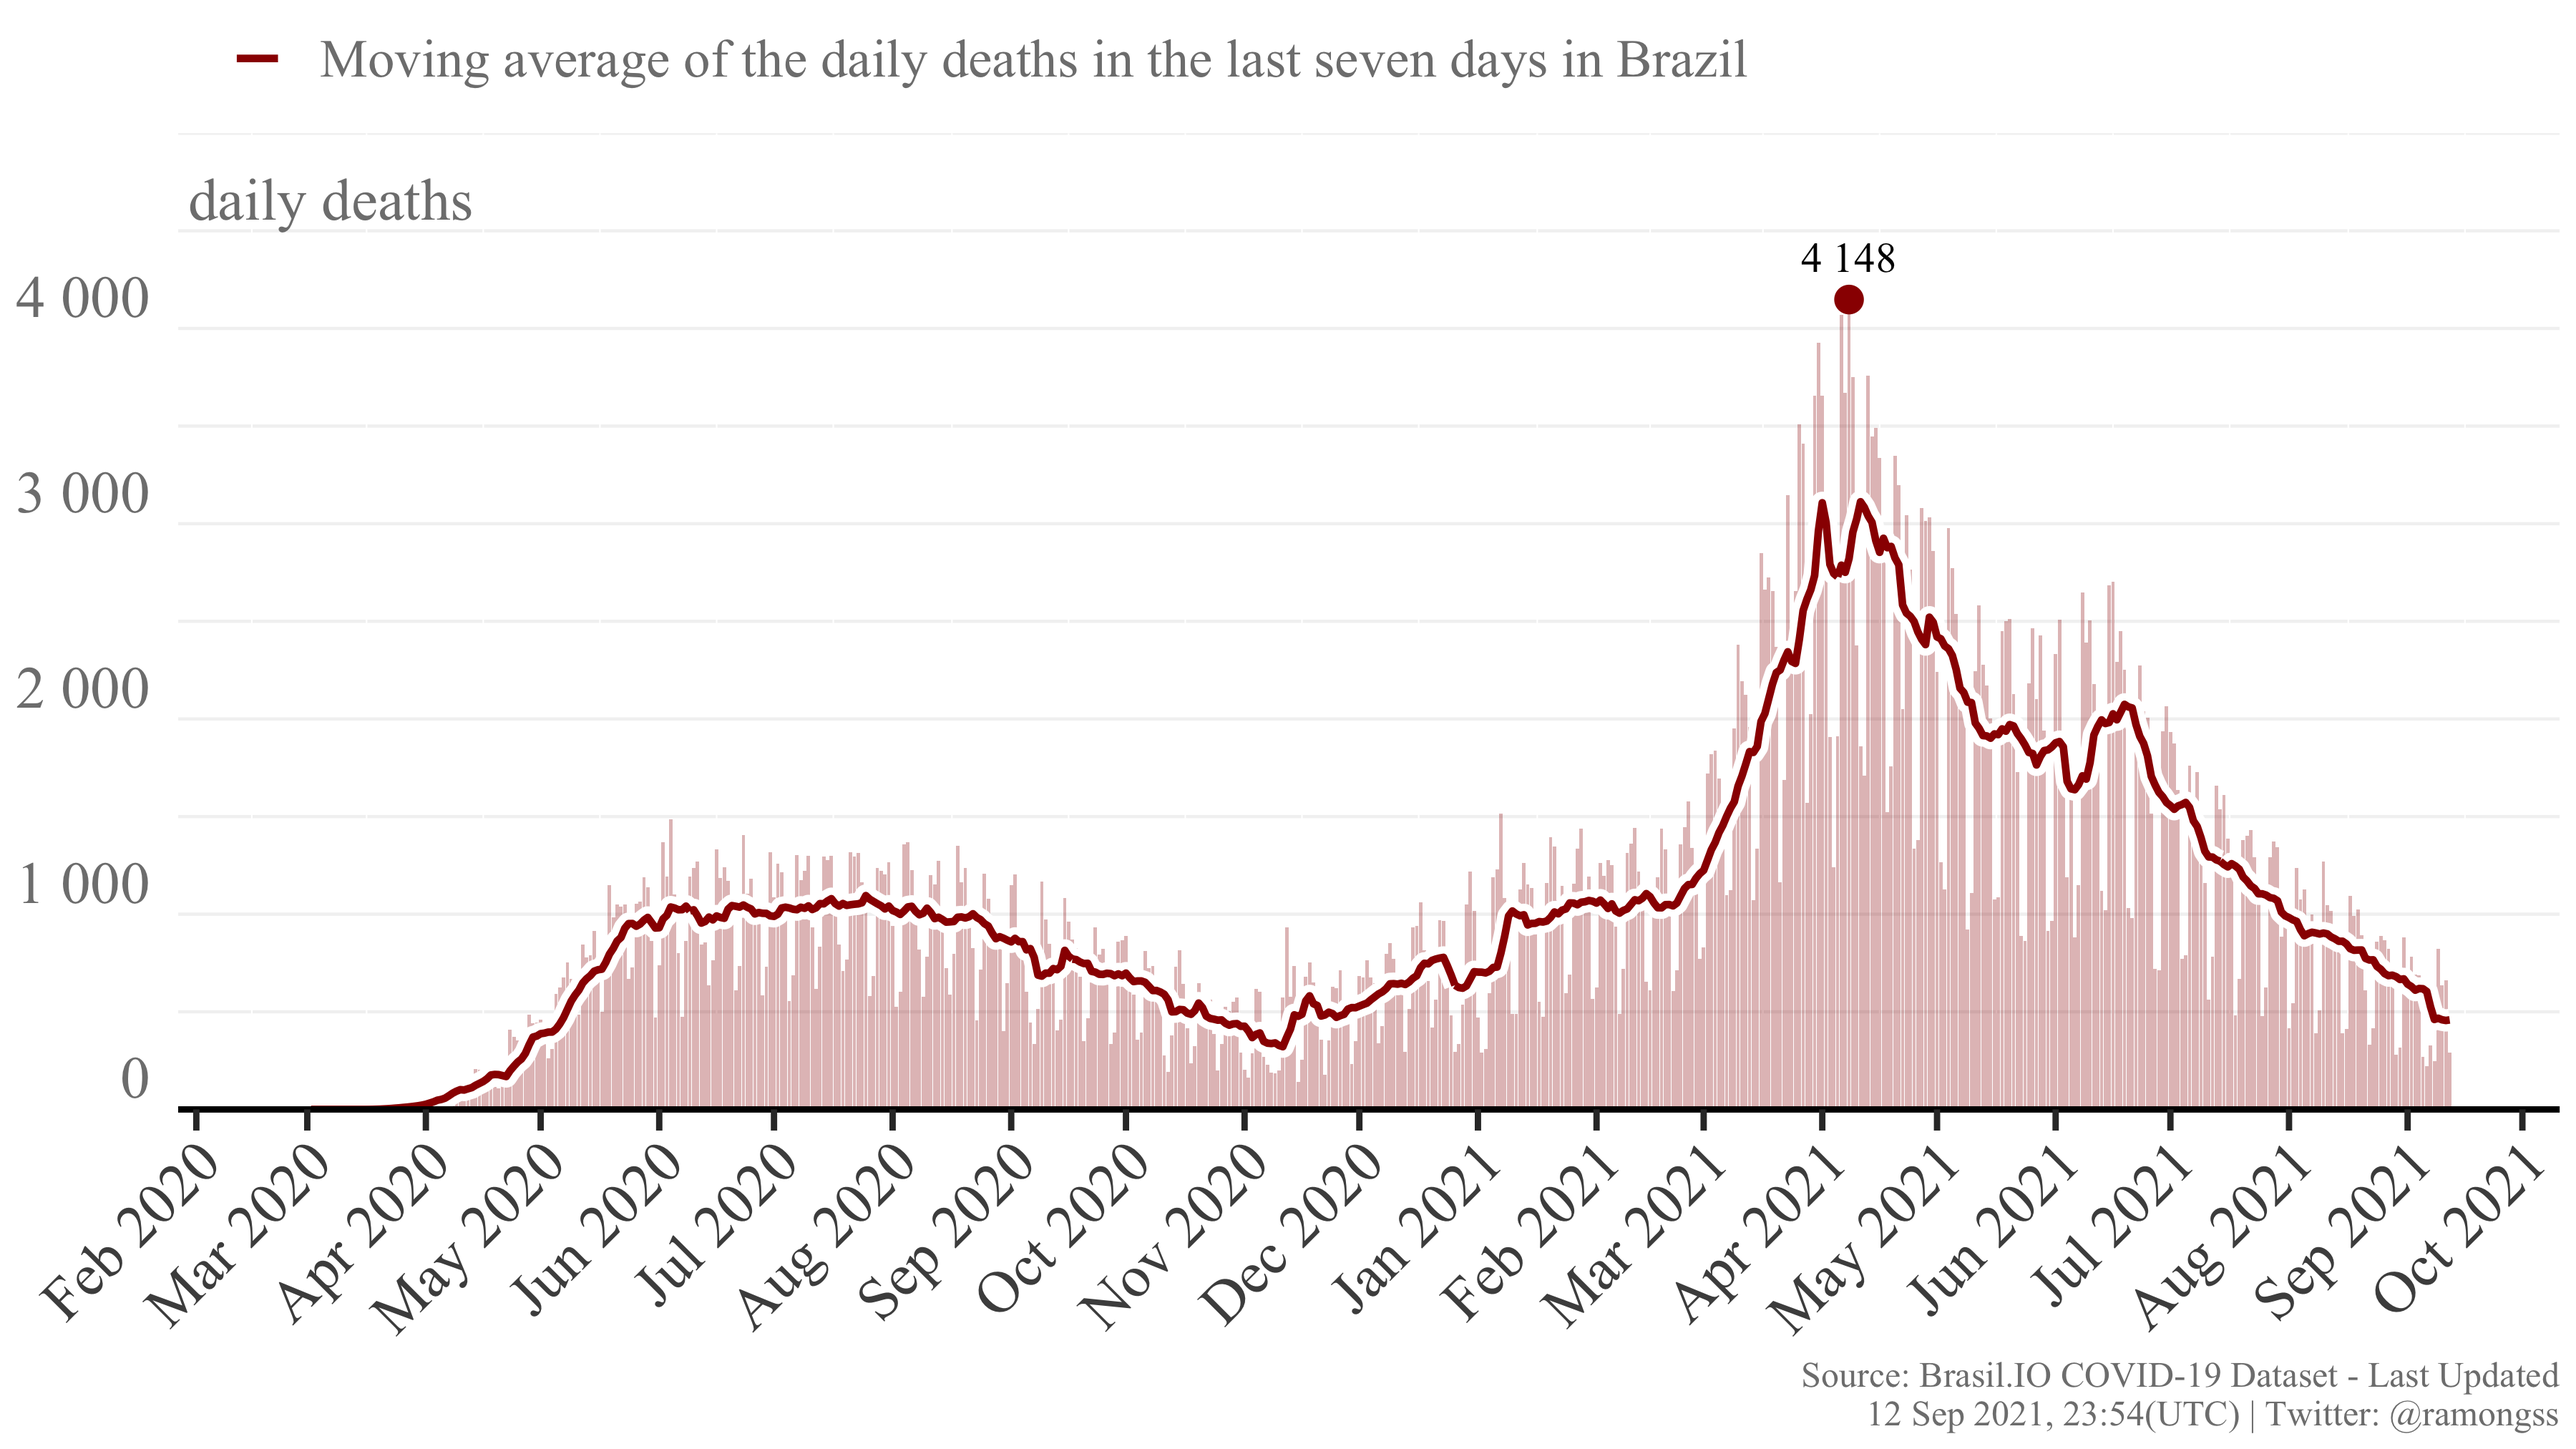
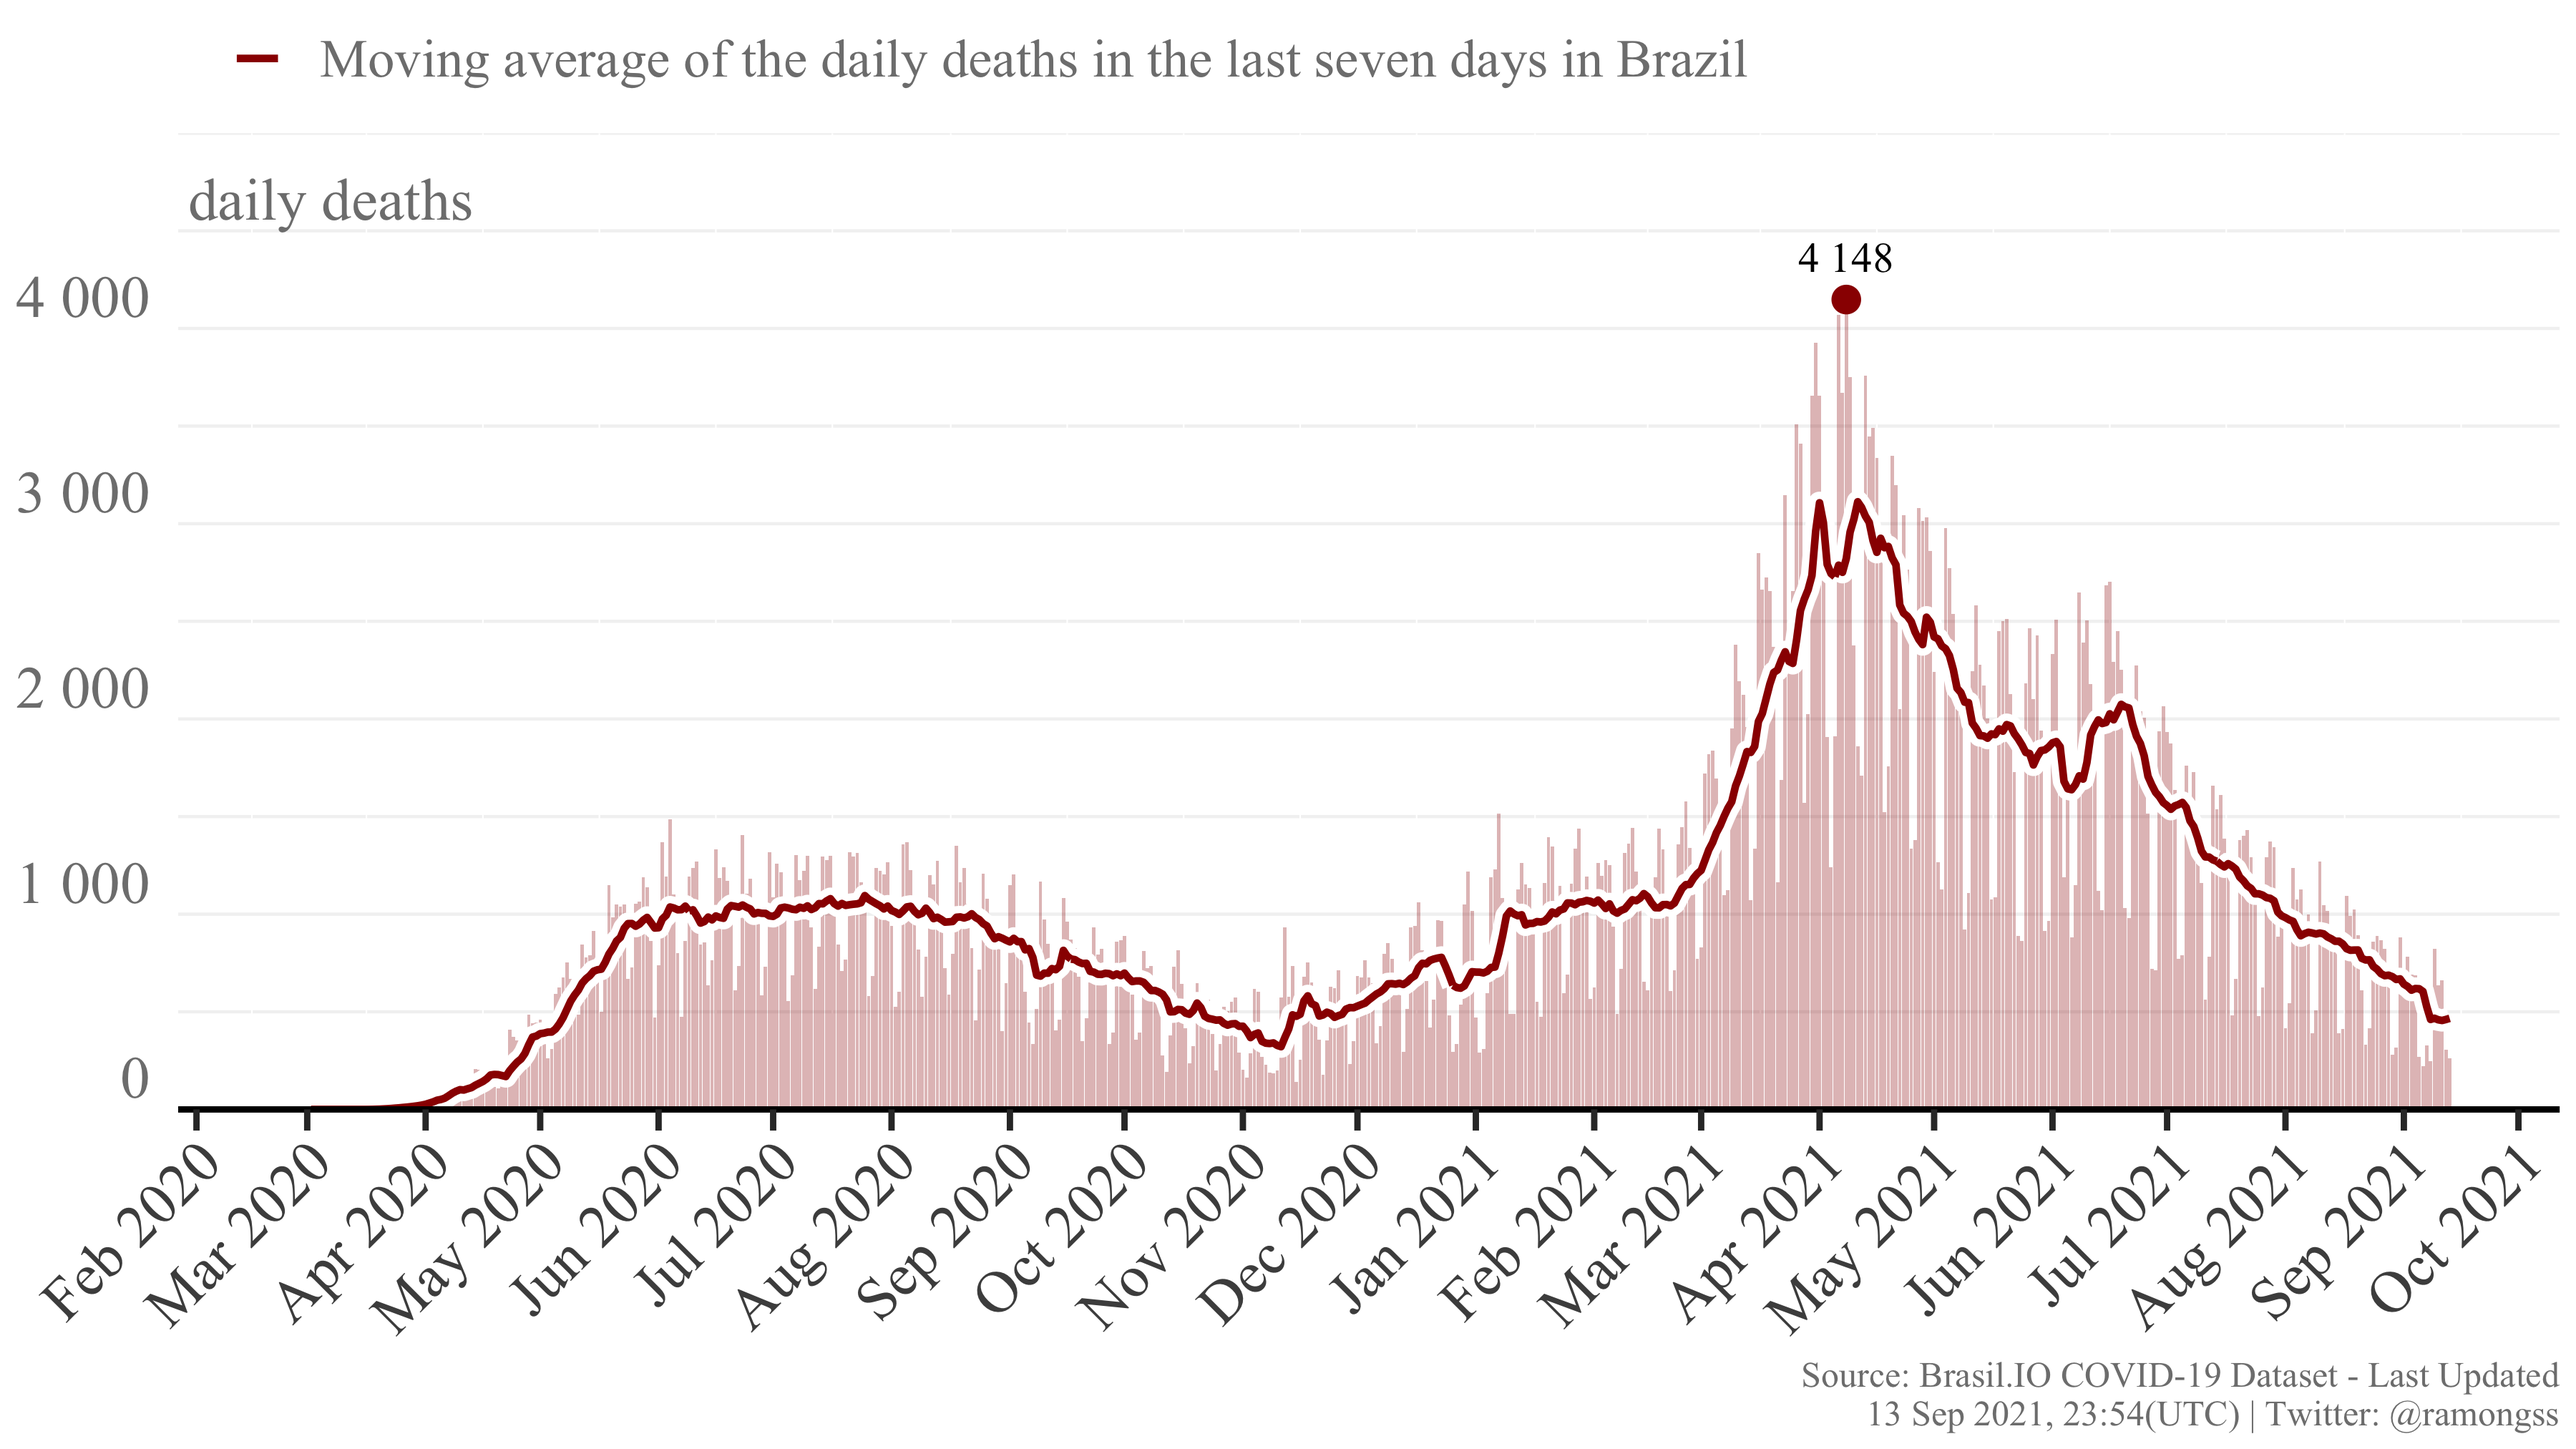
Re-build README.Rmd

diff --git a/README.md b/README.md
@@ -27,8 +27,8 @@ download_brasilio_table <- function(dataset = "covid19", table_name){
 
 ## COVID-19 Confirmed cases
 
-Currently, Brazil has a total of **21,003,134** confirmed cases at **12
-Sep, 2021**, with **7,580** new confirmed cases. The daily maximum
+Currently, Brazil has a total of **21,011,575** confirmed cases at **13
+Sep, 2021**, with **8,159** new confirmed cases. The daily maximum
 incidence was **124,248** confirmed cases at **22 Jun, 2021**. Here
 follows the Figure showing the confirmed case incidence as the bars, and
 the line as the moving average of the last 7 days.
@@ -37,8 +37,8 @@ the line as the moving average of the last 7 days.
 
 ## COVID-19 Deaths
 
-Currently, Brazil has a total of **587,102** deaths at **12 Sep, 2021**,
-with **291** new deaths. The daily maximum deaths incidence was
+Currently, Brazil has a total of **587,378** deaths at **13 Sep, 2021**,
+with **262** new deaths. The daily maximum deaths incidence was
 **4,148** deaths at **08 Apr, 2021**. Here follows the Figure showing
 the deaths incidence as the bars, and the line as the moving average of
 the last 7 days.
@@ -49,4 +49,4 @@ the last 7 days.
 
 This page is daily updated automatically using Github Actions.
 
-*Last update: 12 Sep 2021, 23:54 (UTC).*
+*Last update: 13 Sep 2021, 23:54 (UTC).*
